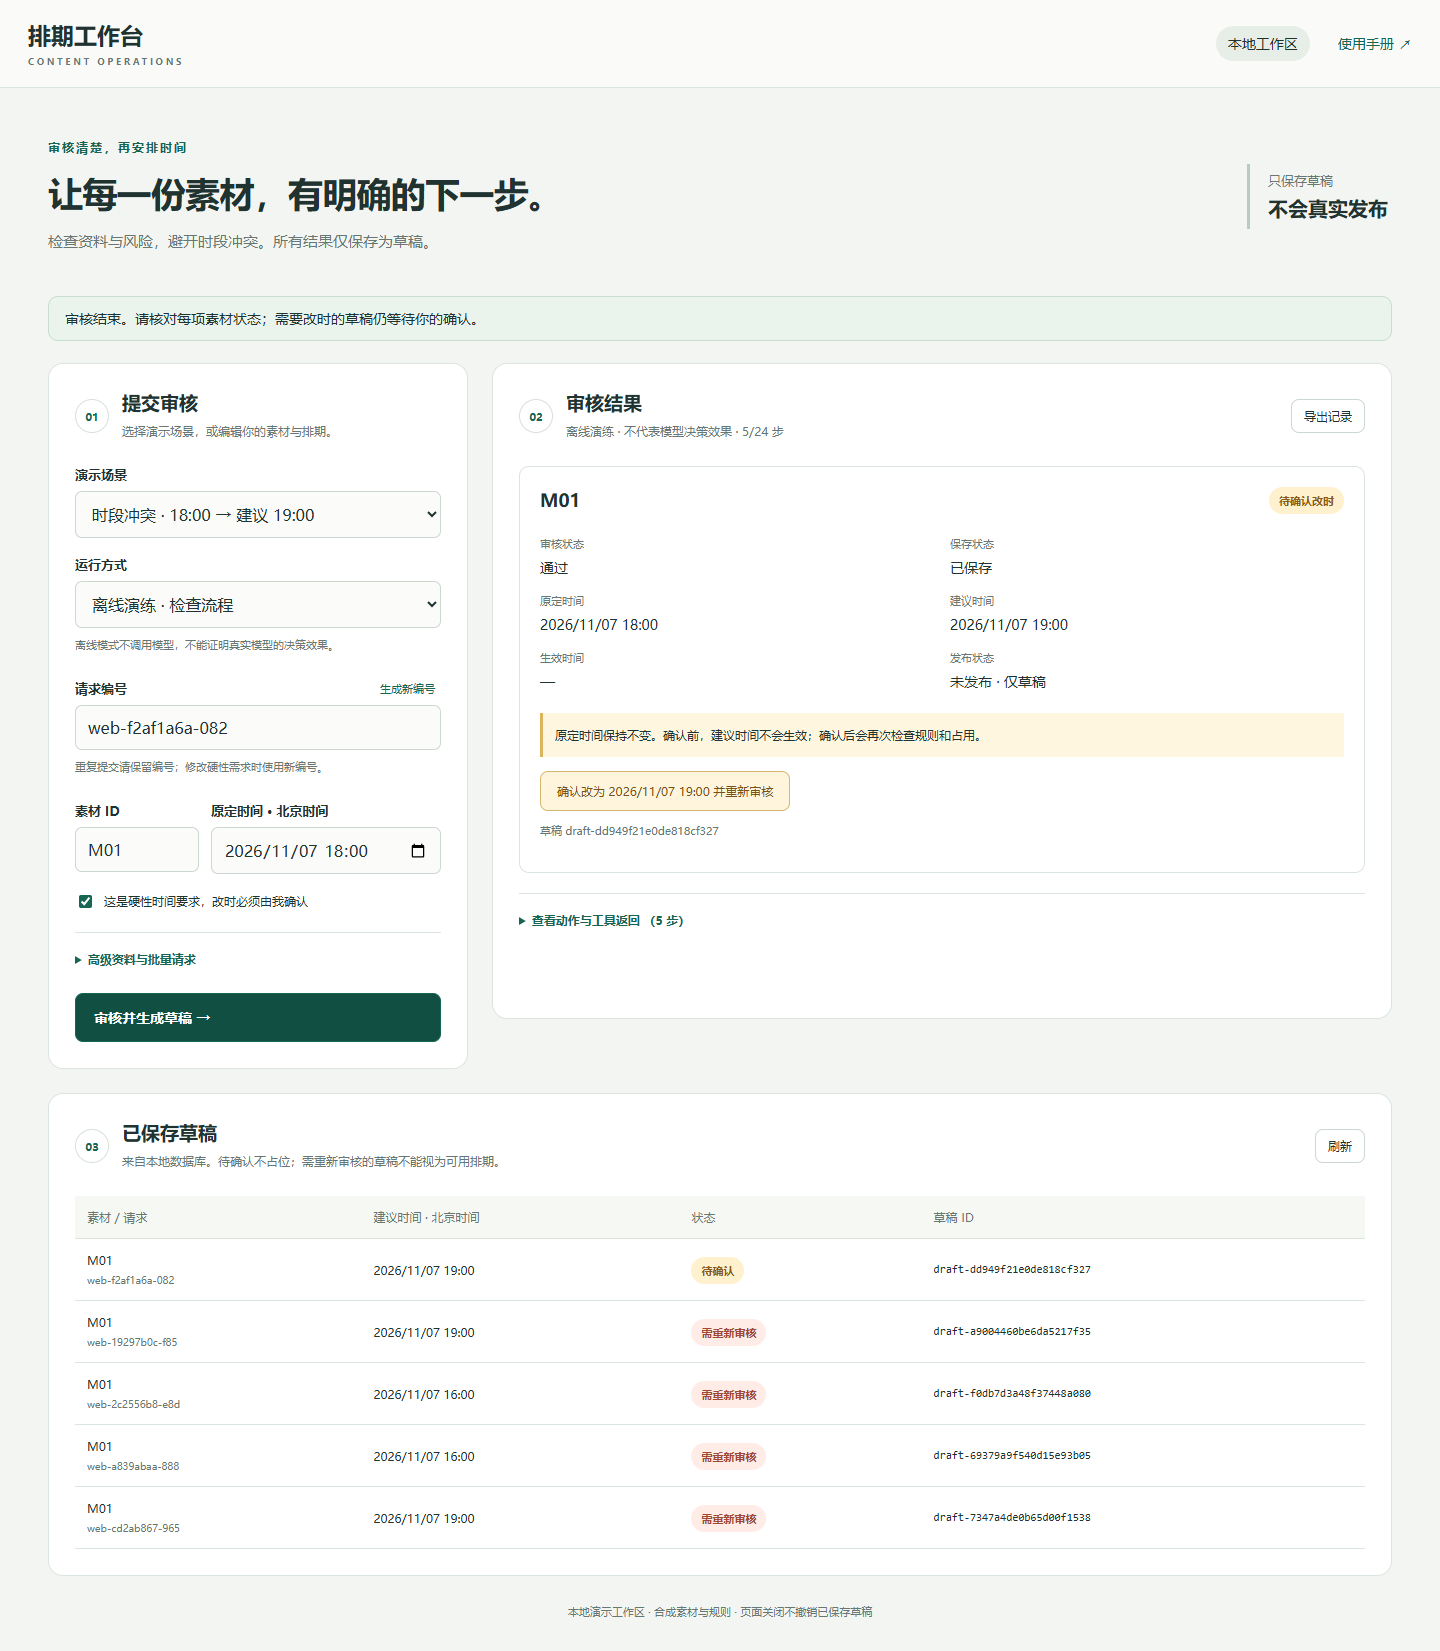
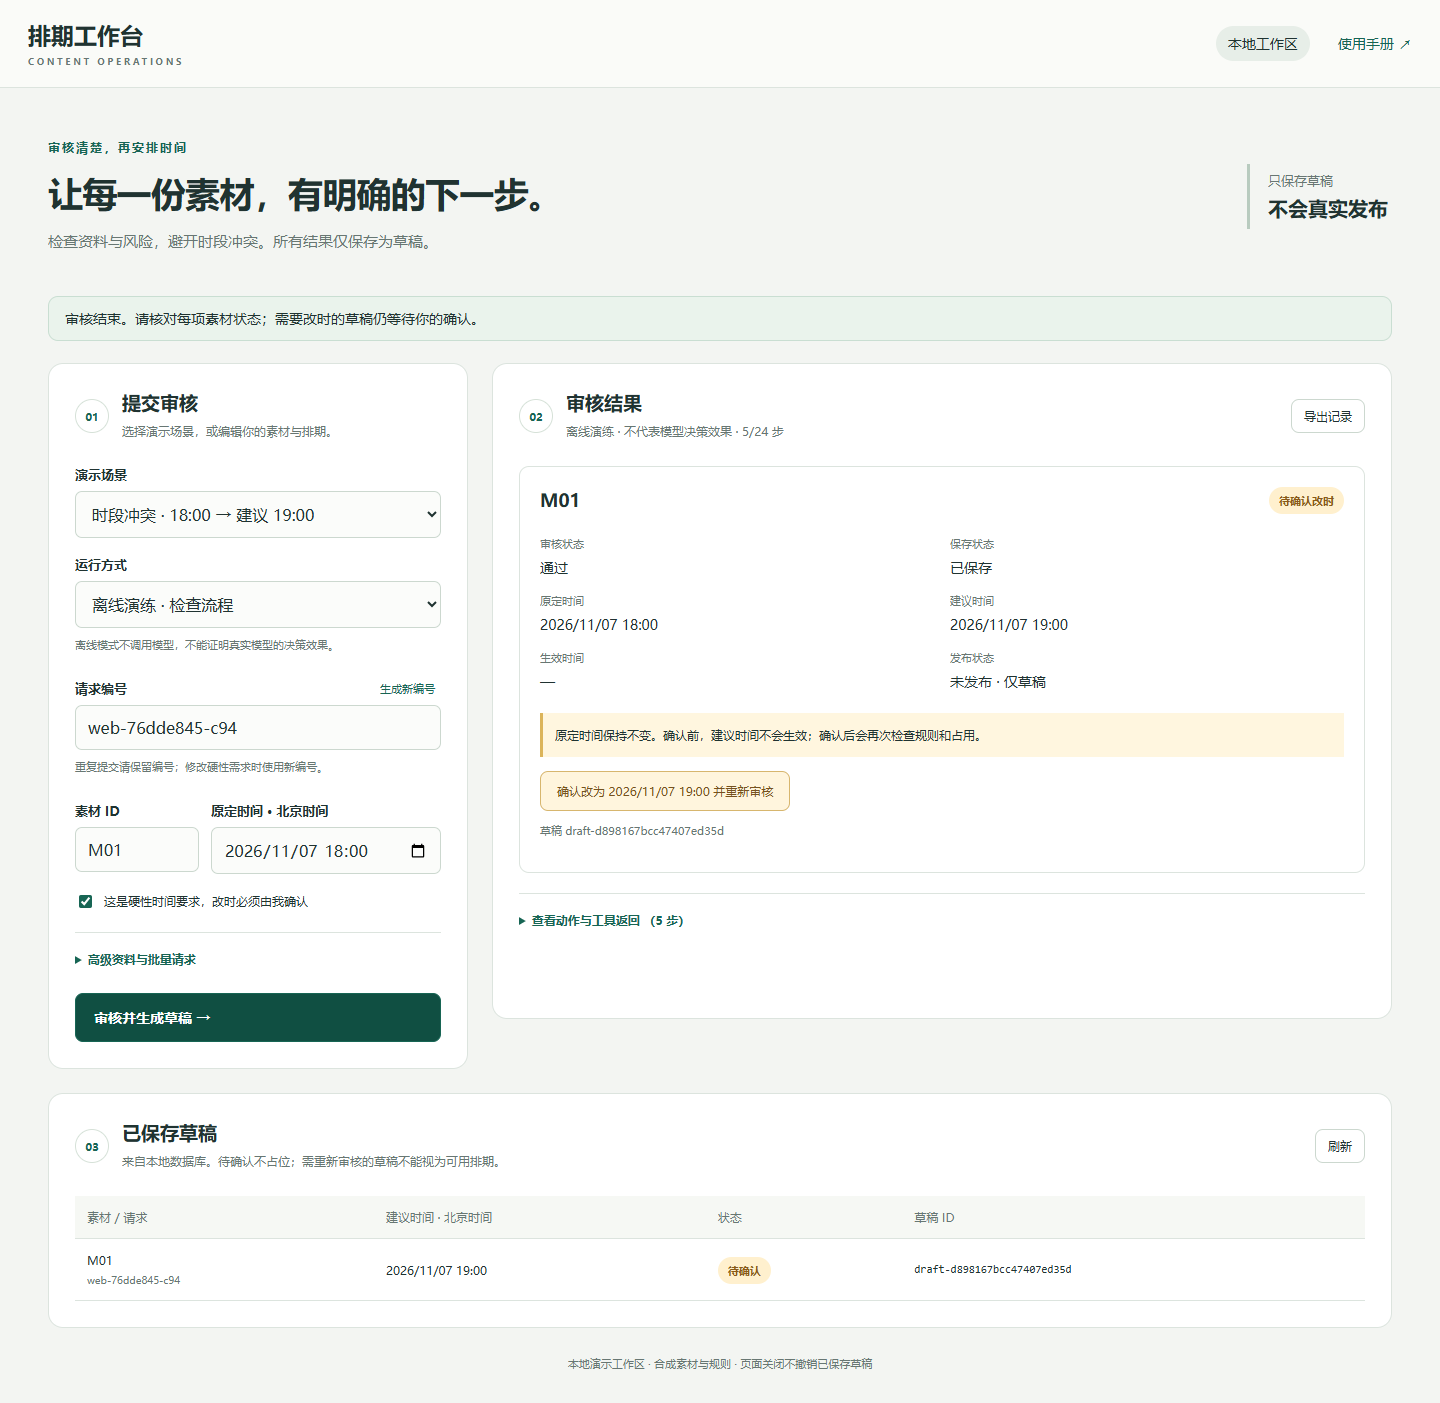
fix: restore in-flight form state on page reload and verify browser recovery

diff --git a/web/app.js b/web/app.js
@@ -377,21 +377,21 @@ $("download").addEventListener("click", () => {
     state.bootstrap = await api("/api/bootstrap");
     scenario();
     await refreshDrafts();
+    notice("本地服务已连接。先离线演练，或切换真实模型进行审核。");
     const prior =
       state.bootstrap.active_job || localStorage.getItem("content-agent-job");
     if (prior) {
       try {
         const job = await api("/api/jobs/" + encodeURIComponent(prior));
+        restoreInputs(job);
         if (job.state === "running") await follow(prior);
         else {
-          restoreInputs(job);
           render(job);
         }
       } catch {
         localStorage.removeItem("content-agent-job");
       }
     }
-    notice("本地服务已连接。先离线演练，或切换真实模型进行审核。");
   } catch (error) {
     notice(
       "连接失败：" + error.message + "。请启动 python -m src.web 后刷新。",

diff --git a/docs/05-retrospective.md b/docs/05-retrospective.md
@@ -4,6 +4,8 @@
 
 第二轮本地验收完成：2026-11-06 15:50，记录跨度约 26 分钟，含真实 CPU 模型等待。69 项分层测试、18 项浏览器检查通过；真实页面链路通过；4 个真实边界场景中“全部占满”首次失败，修复工具状态说明后针对性复测通过，其余三例首次通过。随后进行最终提交与远端 CI，时间以 GitHub 运行记录为准。
 
+收尾增补：15:56 修复运行中刷新应恢复原任务输入，新增浏览器回归检查，总数为 19 项通过。15:57 进入最终提交；第二轮截至此时约 33 分钟，包含推送网络重试、CI 等待与刷新回归。GitHub 推送通过现有本机系统代理完成，没有修改全局 Git 配置。
+
 开发会话开始：2026-11-06 14:04（Asia/Shanghai，最早工具时间记录，之前读题约数分钟未计）。结束时间和实际验证结果将在完成后更新。会话跨度不等同于用户个人投入时长。
 
 设计阶段最难问题：将模型建议、用户确认、实际写库三个事实分开，防止自由文本误报成功；以同一草稿跨重试保持幂等，并在确认后重新验证冲突。
